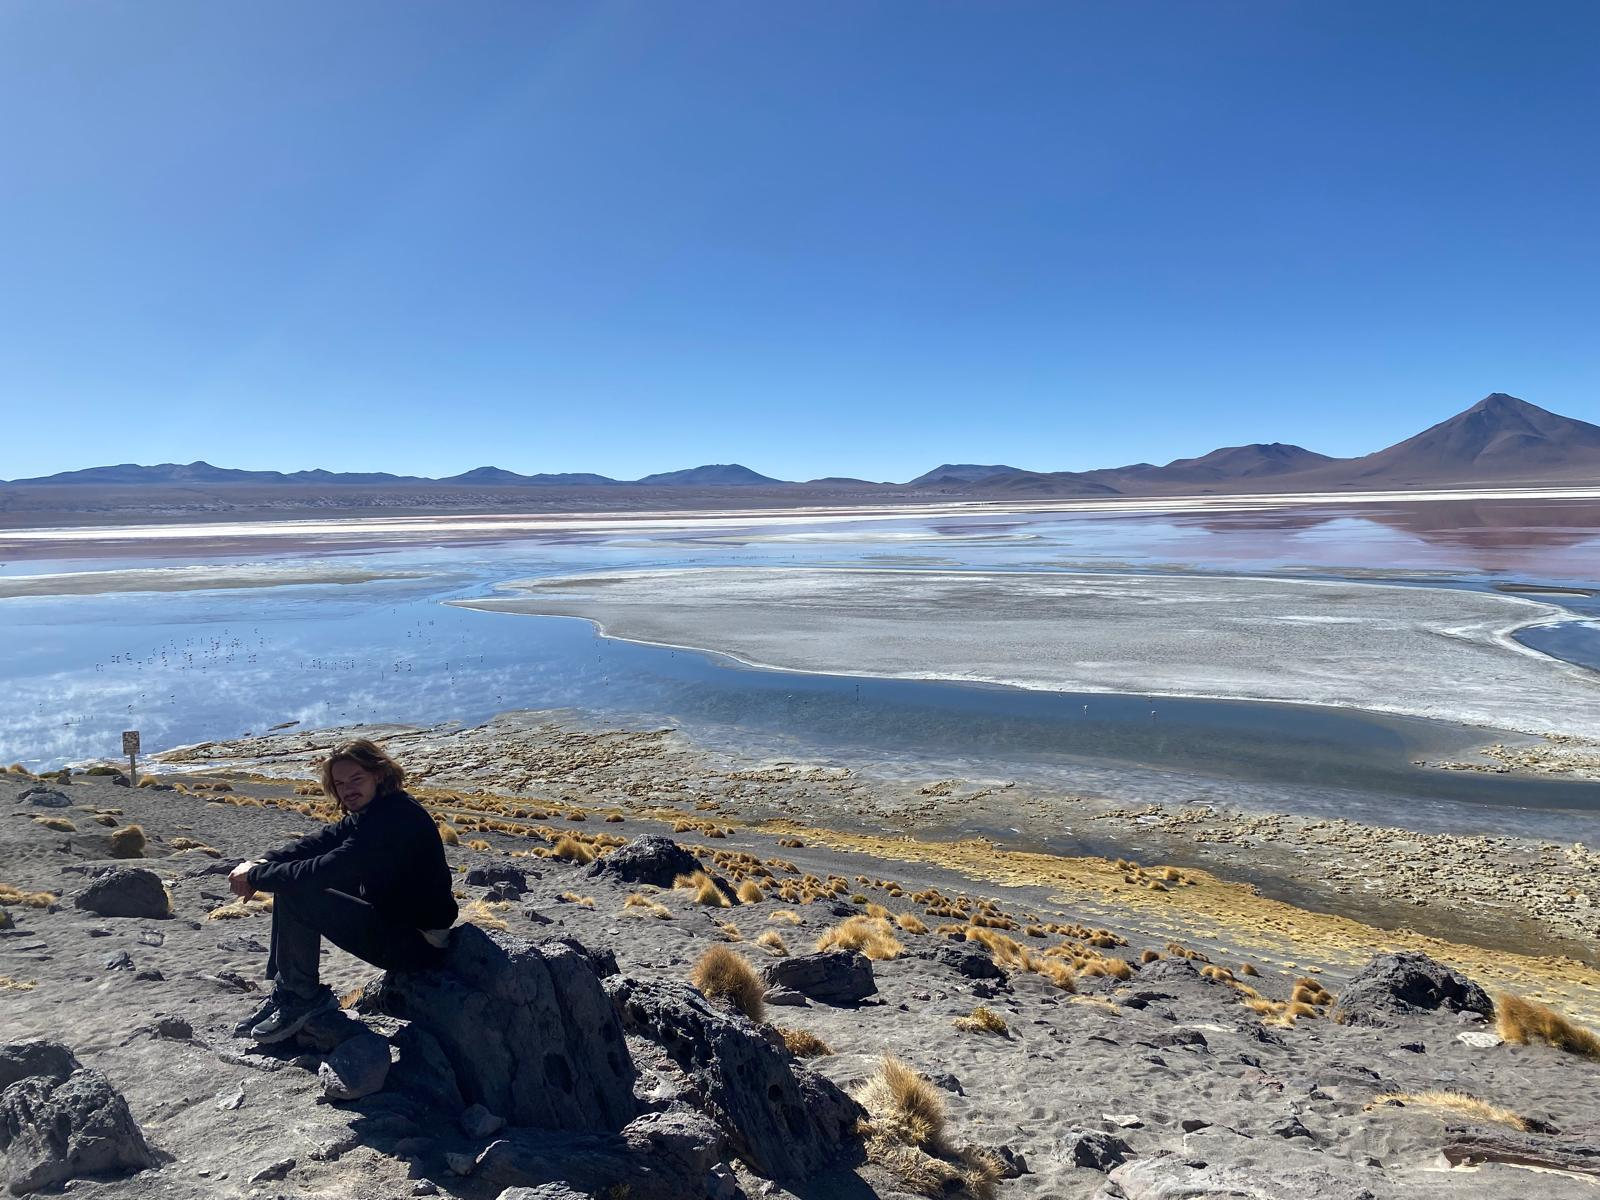
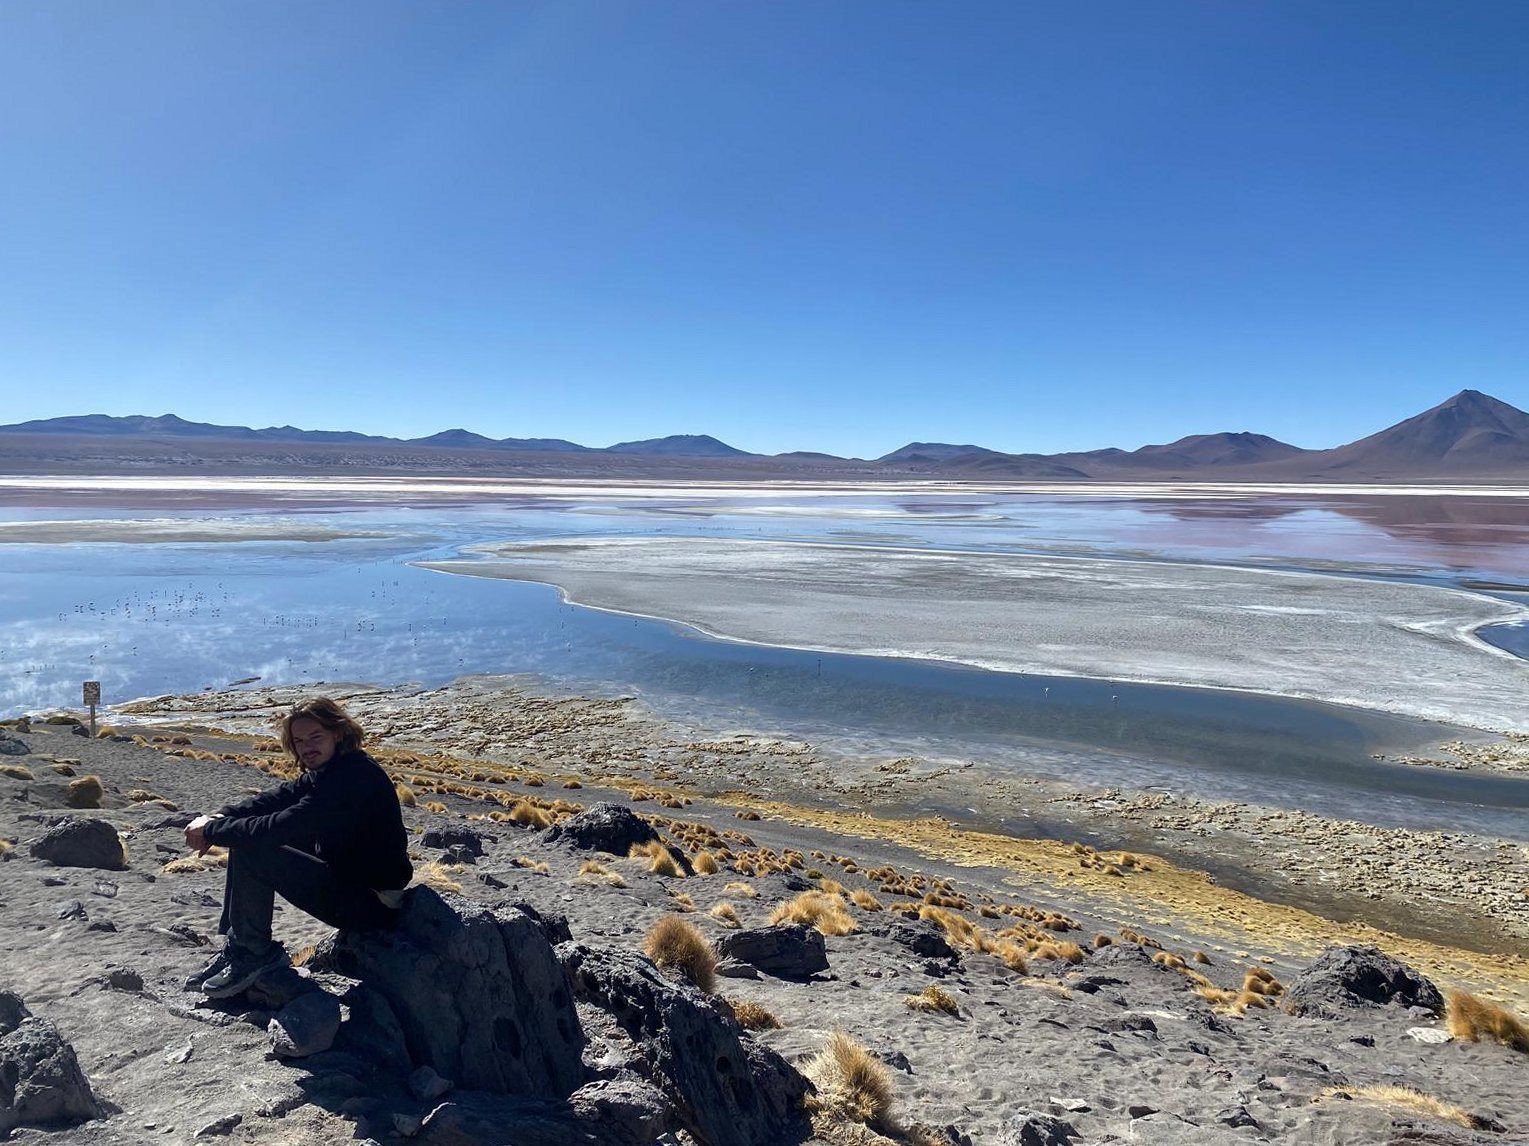
Homepage: horizon recht gezet, mobiele uitsnede rond de steen
Claude-Session: https://claude.ai/code/session_01SS9fzVxLLXszuEBwzonfB1

diff --git a/site/assets/css/style.css b/site/assets/css/style.css
@@ -391,3 +391,9 @@ footer.site-footer a { text-decoration: underline; }
 .nrc-page .content-img {
   margin: 0 0 32px;
 }
+
+/* Homepage op de telefoon: de foto bijsnijden rond mij op de steen, met ruim uitzicht eromheen */
+@media (max-width: 760px) {
+  .hero-full { height: 74vh; min-height: 74vh; }
+  .hero-full img { object-position: 0% 50%; }
+}
